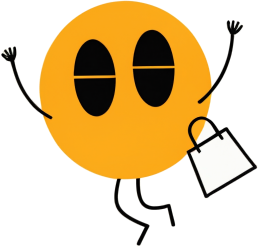
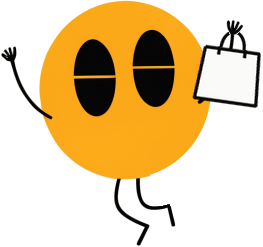
Landing DW: frases más cortas y Tiko con la bolsa en la mano
Claude-Session: https://claude.ai/code/session_015h3myKDGToEw98r4CTJLJW

diff --git a/susurro-digital/index.html b/susurro-digital/index.html
@@ -7,11 +7,11 @@
 <meta name="theme-color" content="#FFFFFF">
 <title>Digital Whisper — Tu negocio responde y publica solo</title>
 <link rel="icon" href="../assets/favicon-cw.png" type="image/png">
-<meta name="description" content="Atiende a tus clientes en WhatsApp e Instagram y arma el contenido de tu semana con tu marca. Nada se publica sin tu aprobación. Pide tu prueba gratis.">
+<meta name="description" content="Atiende a tus clientes en WhatsApp e Instagram y convierte lo que piden en tu contenido. Tú apruebas. Pide tu prueba gratis.">
 <meta property="og:type" content="website">
 <meta property="og:site_name" content="Creative Whisper">
 <meta property="og:title" content="Digital Whisper — Tu negocio responde y publica solo">
-<meta property="og:description" content="Atiende a tus clientes en WhatsApp e Instagram y arma el contenido de tu semana con tu marca. Nada se publica sin tu aprobación. Pide tu prueba gratis.">
+<meta property="og:description" content="Atiende a tus clientes en WhatsApp e Instagram y convierte lo que piden en tu contenido. Tú apruebas. Pide tu prueba gratis.">
 <meta property="og:locale" content="es_EC">
 <meta property="og:url" content="https://creativewhisper.net/susurro-digital/">
 <meta property="og:image" content="https://creativewhisper.net/assets/og-cw-logo.png">
@@ -24,7 +24,7 @@
 <link rel="preconnect" href="https://fonts.gstatic.com" crossorigin>
 <link rel="stylesheet" href="https://fonts.googleapis.com/css2?family=Big+Shoulders+Display:wght@700;800;900&family=Hanken+Grotesk:wght@400;500;600;700&family=IBM+Plex+Mono:wght@400;500&display=swap">
 <link rel="stylesheet" href="../assets/dw-landing.css?v=66">
-<script type="application/ld+json">{"@context":"https://schema.org","@graph":[{"@type":["ProfessionalService","Organization"],"@id":"https://creativewhisper.net/#organization","name":"Creative Whisper","url":"https://creativewhisper.net/","logo":"https://creativewhisper.net/assets/logo-cw.png","image":"https://creativewhisper.net/assets/monograma-cw.png","description":"Creative Whisper es una agencia de marketing basada en datos en Quito, Ecuador. Un solo equipo hace análisis de datos y de conversaciones, producción de video y fotografía, marketing digital (Meta Ads, Instagram, páginas web interactivas) y asistentes con inteligencia artificial que atienden a los clientes por WhatsApp, Instagram y el sitio web.","slogan":"Datos, producción audiovisual y marketing digital en un solo equipo.","telephone":"+593969235680","address":{"@type":"PostalAddress","addressLocality":"Quito","addressRegion":"Pichincha","addressCountry":"EC"},"areaServed":[{"@type":"City","name":"Quito"},{"@type":"Country","name":"Ecuador"}],"availableLanguage":["es","en"],"knowsAbout":["Marketing basado en datos","Análisis de conversaciones con clientes","Análisis de sentimiento","Producción audiovisual","Fotografía de producto","Fotografía automotriz","Meta Ads","Automatización de WhatsApp Business","Asistentes con inteligencia artificial","Diseño web interactivo"],"sameAs":["https://www.instagram.com/creative.whisper.productions"],"contactPoint":{"@type":"ContactPoint","contactType":"sales","telephone":"+593969235680","availableLanguage":["es","en"],"url":"https://wa.me/593969235680","email":"hola@creativewhisper.net"},"email":"hola@creativewhisper.net"},{"@type":"Service","@id":"https://creativewhisper.net/susurro-digital/#service","name":"Digital Whisper","alternateName":"Susurro digital","serviceType":"Publicidad basada en datos","description":"El servicio de escucha de clientes de Creative Whisper: reúne lo que dicen los clientes de un negocio en WhatsApp, Instagram y el sitio web, lo muestra en un tablero con sentimiento y quejas urgentes, y lo convierte en el próximo contenido de la marca para redes. Prueba gratuita por invitación.","url":"https://creativewhisper.net/susurro-digital/","provider":{"@id":"https://creativewhisper.net/#organization"},"areaServed":{"@type":"Country","name":"Ecuador"},"inLanguage":"es"},{"@type":"WebPage","@id":"https://creativewhisper.net/susurro-digital/#webpage","url":"https://creativewhisper.net/susurro-digital/","name":"Digital Whisper — Tu negocio responde y publica solo","description":"Atiende a tus clientes en WhatsApp e Instagram y arma el contenido de tu semana con tu marca. Nada se publica sin tu aprobación. Pide tu prueba gratis.","inLanguage":"es","isPartOf":{"@id":"https://creativewhisper.net/#website"},"about":{"@id":"https://creativewhisper.net/#organization"}},{"@type":"FAQPage","@id":"https://creativewhisper.net/susurro-digital/#faq","inLanguage":"es","mainEntity":[{"@type":"Question","name":"¿Publican algo sin que yo lo apruebe?","acceptedAnswer":{"@type":"Answer","text":"No. Cada pieza espera tu aprobación."}},{"@type":"Question","name":"¿Tengo que saber de tecnología?","acceptedAnswer":{"@type":"Answer","text":"No. Te acompañamos paso a paso al conectar tus canales."}},{"@type":"Question","name":"¿Cómo funciona por dentro?","acceptedAnswer":{"@type":"Answer","text":"Todo el detalle está en tu panel. Lo ves cuando aprobamos tu acceso."}},{"@type":"Question","name":"¿En qué idiomas funciona?","acceptedAnswer":{"@type":"Answer","text":"Español e inglés."}},{"@type":"Question","name":"¿Cuánto dura la prueba y qué pasa después?","acceptedAnswer":{"@type":"Answer","text":"La prueba es gratuita, sin tarjeta, y tiene fecha de fin. Al terminar eliges un plan; no se borra nada."}},{"@type":"Question","name":"¿Cuánto cuesta?","acceptedAnswer":{"@type":"Answer","text":"Primero pruébalo gratis con tus clientes reales. Los planes se conversan según lo que necesites."}}]}]}</script>
+<script type="application/ld+json">{"@context":"https://schema.org","@graph":[{"@type":["ProfessionalService","Organization"],"@id":"https://creativewhisper.net/#organization","name":"Creative Whisper","url":"https://creativewhisper.net/","logo":"https://creativewhisper.net/assets/logo-cw.png","image":"https://creativewhisper.net/assets/monograma-cw.png","description":"Creative Whisper es una agencia de marketing basada en datos en Quito, Ecuador. Un solo equipo hace análisis de datos y de conversaciones, producción de video y fotografía, marketing digital (Meta Ads, Instagram, páginas web interactivas) y asistentes con inteligencia artificial que atienden a los clientes por WhatsApp, Instagram y el sitio web.","slogan":"Datos, producción audiovisual y marketing digital en un solo equipo.","telephone":"+593969235680","address":{"@type":"PostalAddress","addressLocality":"Quito","addressRegion":"Pichincha","addressCountry":"EC"},"areaServed":[{"@type":"City","name":"Quito"},{"@type":"Country","name":"Ecuador"}],"availableLanguage":["es","en"],"knowsAbout":["Marketing basado en datos","Análisis de conversaciones con clientes","Análisis de sentimiento","Producción audiovisual","Fotografía de producto","Fotografía automotriz","Meta Ads","Automatización de WhatsApp Business","Asistentes con inteligencia artificial","Diseño web interactivo"],"sameAs":["https://www.instagram.com/creative.whisper.productions"],"contactPoint":{"@type":"ContactPoint","contactType":"sales","telephone":"+593969235680","availableLanguage":["es","en"],"url":"https://wa.me/593969235680","email":"hola@creativewhisper.net"},"email":"hola@creativewhisper.net"},{"@type":"Service","@id":"https://creativewhisper.net/susurro-digital/#service","name":"Digital Whisper","alternateName":"Susurro digital","serviceType":"Publicidad basada en datos","description":"El servicio de escucha de clientes de Creative Whisper: reúne lo que dicen los clientes de un negocio en WhatsApp, Instagram y el sitio web, lo muestra en un tablero con sentimiento y quejas urgentes, y lo convierte en el próximo contenido de la marca para redes. Prueba gratuita por invitación.","url":"https://creativewhisper.net/susurro-digital/","provider":{"@id":"https://creativewhisper.net/#organization"},"areaServed":{"@type":"Country","name":"Ecuador"},"inLanguage":"es"},{"@type":"WebPage","@id":"https://creativewhisper.net/susurro-digital/#webpage","url":"https://creativewhisper.net/susurro-digital/","name":"Digital Whisper — Tu negocio responde y publica solo","description":"Atiende a tus clientes en WhatsApp e Instagram y convierte lo que piden en tu contenido. Tú apruebas. Pide tu prueba gratis.","inLanguage":"es","isPartOf":{"@id":"https://creativewhisper.net/#website"},"about":{"@id":"https://creativewhisper.net/#organization"}},{"@type":"FAQPage","@id":"https://creativewhisper.net/susurro-digital/#faq","inLanguage":"es","mainEntity":[{"@type":"Question","name":"¿Publican algo sin que yo lo apruebe?","acceptedAnswer":{"@type":"Answer","text":"No. Cada pieza espera tu aprobación."}},{"@type":"Question","name":"¿Tengo que saber de tecnología?","acceptedAnswer":{"@type":"Answer","text":"No. Te acompañamos paso a paso."}},{"@type":"Question","name":"¿Cómo funciona por dentro?","acceptedAnswer":{"@type":"Answer","text":"Lo ves en tu panel cuando aprobamos tu acceso."}},{"@type":"Question","name":"¿En qué idiomas funciona?","acceptedAnswer":{"@type":"Answer","text":"Español e inglés."}},{"@type":"Question","name":"¿Cuánto dura la prueba y qué pasa después?","acceptedAnswer":{"@type":"Answer","text":"Es gratis y sin tarjeta. Al terminar eliges un plan; no se borra nada."}},{"@type":"Question","name":"¿Cuánto cuesta?","acceptedAnswer":{"@type":"Answer","text":"Primero pruébalo gratis. Luego, un plan a tu medida."}}]}]}</script>
 </head>
 <body>
 <a class="skip" href="#contenido">Saltar al contenido</a>
@@ -33,7 +33,7 @@
   <nav aria-label="Secciones"><a href="#promesa">Qué hace</a><a href="#familia">La familia</a><a href="#faq">Preguntas</a><a class="lang-l" href="/digital-whisper/" hreflang="en" lang="en" data-set-lang="en">EN</a><a class="btn pri chico" href="#solicitar">Pide tu prueba gratis</a></nav></header>
 <main id="contenido">
 <section class="l-sec" style="padding-top:0"><div class="l-in hero">
-  <div><span class="mono">Atención y contenido para tu negocio</span><h1 style="margin-top:14px">Tu negocio responde y publica <em>solo</em>. Tú apruebas.</h1><p class="lede">Digital Whisper atiende a tus clientes en WhatsApp e Instagram, escucha lo que piden y lo convierte en el contenido de tu semana, con tu marca.</p>
+  <div><span class="mono">Atención y contenido para tu negocio</span><h1 style="margin-top:14px">Tu negocio responde y publica <em>solo</em>. Tú apruebas.</h1><p class="lede">Atiende a tus clientes en WhatsApp e Instagram y convierte lo que piden en tu contenido.</p>
     <div class="cta"><a class="btn pri" href="#solicitar">Pide tu prueba gratis</a><a class="btn" href="#familia">Conoce a la familia →</a></div>
     <div class="conf"><span class="pill ok">✓ Nada se publica sin tu aprobación</span><span class="pill">🔒 Claves cifradas</span><span class="pill">ES · EN</span></div></div>
   <div class="mock" role="img" aria-label="Ilustración del panel con datos de ejemplo."><div class="mbar"><i></i><i></i><i></i><span style="margin-left:8px">Tu panel · esta semana</span></div>
@@ -42,15 +42,15 @@
       <div class="fila">💬 <span>«¿Tienen envío hoy?» · respondido en WhatsApp</span><span class="pill ok">ok</span></div><p class="ayuda" style="margin:0;font-size:12px">Ilustración del panel con datos de ejemplo.</p></div></div>
 </div></section>
 <section class="l-sec" id="promesa" style="background:var(--papel)"><div class="l-in dos">
-  <div class="prob"><span class="mono">El problema</span><h2 style="margin-top:10px">Responder y publicar se come tu día</h2><ul><li>Mensajes sin responder cuando el negocio está lleno.</li><li>Las mismas preguntas, una y otra vez.</li><li>Semanas sin publicar porque nadie tuvo tiempo.</li><li>Quejas que se quedan en un chat y nadie resuelve.</li></ul></div>
-  <div class="prob si"><span class="mono">La promesa</span><h2 style="margin-top:10px">Tú decides. Lo demás corre solo.</h2><ul><li>Un asistente que responde con tu información, a cualquier hora.</li><li>Cada queja se vuelve un caso que llega a quien lo resuelve.</li><li>La semana de contenido lista para aprobar de un toque.</li><li>Lo que tus clientes preguntan guía lo que publicas.</li></ul></div></div></section>
-<section class="l-sec" id="familia"><div class="l-in"><span class="mono">La familia Whisper</span><h2 style="margin-top:10px">Cinco formas de sentir. Las escuchamos todas.</h2><p class="lede" style="max-width:640px">Cada mensaje de tus clientes trae una emoción. Digital Whisper la reconoce, en español o en inglés, y te dice qué hacer con ella.</p><div class="familia"><figure class="bicho b-tiko"><img src="../assets/mascota/tiko.webp" alt="Tiko" width="180" height="230" loading="lazy"><figcaption><b>Tiko</b><span class="dice">«Quiero comprar»</span><span class="ayuda">Encuentra a quien está listo para comprar, para que no se te escape.</span></figcaption></figure><figure class="bicho b-ruby"><img src="../assets/mascota/ruby.webp" alt="Ruby" width="180" height="230" loading="lazy"><figcaption><b>Ruby</b><span class="dice">«Estoy molesto»</span><span class="ayuda">Las quejas te llegan primero, antes de que crezcan.</span></figcaption></figure><figure class="bicho b-pia"><img src="../assets/mascota/pia.webp" alt="Pía" width="180" height="230" loading="lazy"><figcaption><b>Pía</b><span class="dice">«Tengo una duda»</span><span class="ayuda">Lo que más preguntan se vuelve respuesta y contenido.</span></figcaption></figure><figure class="bicho b-teo"><img src="../assets/mascota/teo.webp" alt="Teo" width="180" height="230" loading="lazy"><figcaption><b>Teo</b><span class="dice">«Me encanta»</span><span class="ayuda">Lo que tus clientes aman, para que lo cuentes más.</span></figcaption></figure><figure class="bicho b-ari"><img src="../assets/mascota/ari.webp" alt="Ari" width="180" height="230" loading="lazy"><figcaption><b>Ari</b><span class="dice">«Solo miraba»</span><span class="ayuda">El resto también cuenta: el pulso de cada semana.</span></figcaption></figure></div><p class="ayuda fam-pie">El cómo, en detalle, vive en tu panel: lo ves cuando aprobamos tu acceso.</p></div></section>
+  <div class="prob"><span class="mono">El problema</span><h2 style="margin-top:10px">Responder y publicar se come tu día</h2><ul><li>Mensajes sin responder.</li><li>Las mismas preguntas, una y otra vez.</li><li>Semanas sin publicar.</li><li>Quejas que nadie resuelve.</li></ul></div>
+  <div class="prob si"><span class="mono">La promesa</span><h2 style="margin-top:10px">Tú decides. Lo demás corre solo.</h2><ul><li>Respuestas a cualquier hora.</li><li>Cada queja llega a quien la resuelve.</li><li>Tu semana de contenido, lista para aprobar.</li><li>Publicas lo que tus clientes piden.</li></ul></div></div></section>
+<section class="l-sec" id="familia"><div class="l-in"><span class="mono">La familia Whisper</span><h2 style="margin-top:10px">Cinco formas de sentir. Las escuchamos todas.</h2><p class="lede" style="max-width:640px">Cada mensaje trae una emoción. La reconocemos y te decimos qué hacer.</p><div class="familia"><figure class="bicho b-tiko"><img src="../assets/mascota/tiko.webp?v=2" alt="Tiko" width="180" height="230" loading="lazy"><figcaption><b>Tiko</b><span class="dice">«Quiero comprar»</span><span class="ayuda">Quien está listo para comprar.</span></figcaption></figure><figure class="bicho b-ruby"><img src="../assets/mascota/ruby.webp" alt="Ruby" width="180" height="230" loading="lazy"><figcaption><b>Ruby</b><span class="dice">«Estoy molesto»</span><span class="ayuda">Las quejas, antes de que crezcan.</span></figcaption></figure><figure class="bicho b-pia"><img src="../assets/mascota/pia.webp" alt="Pía" width="180" height="230" loading="lazy"><figcaption><b>Pía</b><span class="dice">«Tengo una duda»</span><span class="ayuda">Lo que más te preguntan.</span></figcaption></figure><figure class="bicho b-teo"><img src="../assets/mascota/teo.webp" alt="Teo" width="180" height="230" loading="lazy"><figcaption><b>Teo</b><span class="dice">«Me encanta»</span><span class="ayuda">Lo que tus clientes aman.</span></figcaption></figure><figure class="bicho b-ari"><img src="../assets/mascota/ari.webp" alt="Ari" width="180" height="230" loading="lazy"><figcaption><b>Ari</b><span class="dice">«Solo miraba»</span><span class="ayuda">El pulso de cada semana.</span></figcaption></figure></div><p class="ayuda fam-pie">El detalle lo ves en tu panel.</p></div></section>
 <section class="l-sec"><div class="l-in"><span class="mono">Seguridad y confianza</span><h2 style="margin-top:10px">Tu cuenta, tus reglas</h2>
-  <div class="seg"><div><b>Tú apruebas</b><span class="ayuda">Nada sale sin tu aprobación, y queda registrado quién aprobó cada pieza.</span></div><div><b>Claves cifradas</b><span class="ayuda">Las pegas tú en una ventana protegida. Nadie las vuelve a ver; el asistente nunca las pide.</span></div><div><b>Solo tu información</b><span class="ayuda">El asistente no inventa precios, promociones ni fechas.</span></div><div><b>Tus datos, separados</b><span class="ayuda">Cada cuenta está aislada de las demás. Puedes pedir que se borre.</span></div></div></div></section>
+  <div class="seg"><div><b>Tú apruebas</b><span class="ayuda">Nada sale sin tu visto bueno.</span></div><div><b>Claves cifradas</b><span class="ayuda">Nadie más las ve.</span></div><div><b>Solo tu información</b><span class="ayuda">Nada de precios ni promociones inventados.</span></div><div><b>Tus datos, separados</b><span class="ayuda">Aislados de las demás cuentas.</span></div></div></div></section>
 <!-- Casos de clientes: bloque reservado. Se muestra (quitando «hidden») cuando haya un caso real con resultados y permiso del cliente. Nada inventado. -->
 <section class="l-sec" id="casos" style="background:var(--papel)" hidden><div class="l-in"><span class="mono">Casos de clientes</span><h2 style="margin-top:10px">Marcas que ya lo usan</h2><div id="casosLista"></div></div></section>
-<section class="l-sec" id="faq"><div class="l-in dos"><div class="faq"><span class="mono">Preguntas frecuentes</span><h2 style="margin:10px 0 18px">Lo que nos preguntan</h2><details><summary>¿Publican algo sin que yo lo apruebe?</summary><p>No. Cada pieza espera tu aprobación.</p></details><details><summary>¿Tengo que saber de tecnología?</summary><p>No. Te acompañamos paso a paso al conectar tus canales.</p></details><details><summary>¿Cómo funciona por dentro?</summary><p>Todo el detalle está en tu panel. Lo ves cuando aprobamos tu acceso.</p></details><details><summary>¿En qué idiomas funciona?</summary><p>Español e inglés.</p></details><details><summary>¿Cuánto dura la prueba y qué pasa después?</summary><p>La prueba es gratuita, sin tarjeta, y tiene fecha de fin. Al terminar eliges un plan; no se borra nada.</p></details><details><summary>¿Cuánto cuesta?</summary><p>Primero pruébalo gratis con tus clientes reales. Los planes se conversan según lo que necesites.</p></details></div>
-  <div id="solicitar"><div class="tarjeta" style="border:1.5px solid var(--negro);box-shadow:8px 8px 0 var(--naranja)"><h2 style="font-size:40px">Pide tu prueba gratis</h2><p class="ayuda">Con tus clientes reales. Sin tarjeta. El acceso es por aprobación: te respondemos por correo.</p>
+<section class="l-sec" id="faq"><div class="l-in dos"><div class="faq"><span class="mono">Preguntas frecuentes</span><h2 style="margin:10px 0 18px">Lo que nos preguntan</h2><details><summary>¿Publican algo sin que yo lo apruebe?</summary><p>No. Cada pieza espera tu aprobación.</p></details><details><summary>¿Tengo que saber de tecnología?</summary><p>No. Te acompañamos paso a paso.</p></details><details><summary>¿Cómo funciona por dentro?</summary><p>Lo ves en tu panel cuando aprobamos tu acceso.</p></details><details><summary>¿En qué idiomas funciona?</summary><p>Español e inglés.</p></details><details><summary>¿Cuánto dura la prueba y qué pasa después?</summary><p>Es gratis y sin tarjeta. Al terminar eliges un plan; no se borra nada.</p></details><details><summary>¿Cuánto cuesta?</summary><p>Primero pruébalo gratis. Luego, un plan a tu medida.</p></details></div>
+  <div id="solicitar"><div class="tarjeta" style="border:1.5px solid var(--negro);box-shadow:8px 8px 0 var(--naranja)"><h2 style="font-size:40px">Pide tu prueba gratis</h2><p class="ayuda">Sin tarjeta. Te respondemos por correo.</p>
 <form class="reg" id="solicitud" novalidate>
         <div class="fila">
           <label><span class="rot">Tu nombre</span><input type="text" id="rNombre" name="cw-persona" maxlength="80" autocomplete="name" required></label>

diff --git a/digital-whisper/index.html b/digital-whisper/index.html
@@ -7,11 +7,11 @@
 <meta name="theme-color" content="#FFFFFF">
 <title>Digital Whisper — Your business answers and posts by itself</title>
 <link rel="icon" href="../assets/favicon-cw.png" type="image/png">
-<meta name="description" content="Serves your customers on WhatsApp and Instagram and prepares your week&#x27;s content in your brand. Nothing is published without your approval. Request a free trial.">
+<meta name="description" content="Serves your customers on WhatsApp and Instagram and turns what they ask into your content. You approve. Request a free trial.">
 <meta property="og:type" content="website">
 <meta property="og:site_name" content="Creative Whisper">
 <meta property="og:title" content="Digital Whisper — Your business answers and posts by itself">
-<meta property="og:description" content="Serves your customers on WhatsApp and Instagram and prepares your week&#x27;s content in your brand. Nothing is published without your approval. Request a free trial.">
+<meta property="og:description" content="Serves your customers on WhatsApp and Instagram and turns what they ask into your content. You approve. Request a free trial.">
 <meta property="og:locale" content="en_US">
 <meta property="og:url" content="https://creativewhisper.net/digital-whisper/">
 <meta property="og:image" content="https://creativewhisper.net/assets/og-cw-logo.png">
@@ -24,7 +24,7 @@
 <link rel="preconnect" href="https://fonts.gstatic.com" crossorigin>
 <link rel="stylesheet" href="https://fonts.googleapis.com/css2?family=Big+Shoulders+Display:wght@700;800;900&family=Hanken+Grotesk:wght@400;500;600;700&family=IBM+Plex+Mono:wght@400;500&display=swap">
 <link rel="stylesheet" href="../assets/dw-landing.css?v=66">
-<script type="application/ld+json">{"@context":"https://schema.org","@graph":[{"@type":["ProfessionalService","Organization"],"@id":"https://creativewhisper.net/#organization","name":"Creative Whisper","url":"https://creativewhisper.net/","logo":"https://creativewhisper.net/assets/logo-cw.png","image":"https://creativewhisper.net/assets/monograma-cw.png","description":"Creative Whisper is a data-driven marketing agency in Quito, Ecuador. One team handles data and conversation analysis, video and photo production, digital marketing (Meta Ads, Instagram, interactive websites) and AI assistants that answer customers on WhatsApp, Instagram and websites.","slogan":"Data, video production and digital marketing in one team.","telephone":"+593969235680","address":{"@type":"PostalAddress","addressLocality":"Quito","addressRegion":"Pichincha","addressCountry":"EC"},"areaServed":[{"@type":"City","name":"Quito"},{"@type":"Country","name":"Ecuador"}],"availableLanguage":["es","en"],"knowsAbout":["Data-driven marketing","Customer conversation analysis","Sentiment analysis","Video production","Product photography","Automotive photography","Meta Ads","WhatsApp Business automation","AI chat assistants","Interactive web design"],"sameAs":["https://www.instagram.com/creative.whisper.productions"],"contactPoint":{"@type":"ContactPoint","contactType":"sales","telephone":"+593969235680","availableLanguage":["es","en"],"url":"https://wa.me/593969235680","email":"hola@creativewhisper.net"},"email":"hola@creativewhisper.net"},{"@type":"Service","@id":"https://creativewhisper.net/digital-whisper/#service","name":"Digital Whisper","alternateName":"Susurro digital","serviceType":"Data-driven advertising","description":"Creative Whisper's customer-listening service: it gathers what customers say in a business's WhatsApp, Instagram and website conversations, shows it in a dashboard with sentiment and urgent complaints, and turns it into the brand's next social media content. Free trial by invitation.","url":"https://creativewhisper.net/digital-whisper/","provider":{"@id":"https://creativewhisper.net/#organization"},"areaServed":{"@type":"Country","name":"Ecuador"},"inLanguage":"en"},{"@type":"WebPage","@id":"https://creativewhisper.net/digital-whisper/#webpage","url":"https://creativewhisper.net/digital-whisper/","name":"Digital Whisper — Your business answers and posts by itself","description":"Serves your customers on WhatsApp and Instagram and prepares your week's content in your brand. Nothing is published without your approval. Request a free trial.","inLanguage":"en","isPartOf":{"@id":"https://creativewhisper.net/#website"},"about":{"@id":"https://creativewhisper.net/#organization"}},{"@type":"FAQPage","@id":"https://creativewhisper.net/digital-whisper/#faq","inLanguage":"en","mainEntity":[{"@type":"Question","name":"Do you publish anything without my approval?","acceptedAnswer":{"@type":"Answer","text":"No. Every piece waits for your approval."}},{"@type":"Question","name":"Do I need to be technical?","acceptedAnswer":{"@type":"Answer","text":"No. We walk you through connecting your channels, step by step."}},{"@type":"Question","name":"How does it work inside?","acceptedAnswer":{"@type":"Answer","text":"All the detail is in your dashboard. You see it once we approve your access."}},{"@type":"Question","name":"Which languages does it work in?","acceptedAnswer":{"@type":"Answer","text":"Spanish and English."}},{"@type":"Question","name":"How long is the trial and what happens after?","acceptedAnswer":{"@type":"Answer","text":"The trial is free, with no card, and has an end date. When it ends you choose a plan; nothing is deleted."}},{"@type":"Question","name":"How much does it cost?","acceptedAnswer":{"@type":"Answer","text":"Try it free with your real customers first. Plans are discussed based on what you need."}}]}]}</script>
+<script type="application/ld+json">{"@context":"https://schema.org","@graph":[{"@type":["ProfessionalService","Organization"],"@id":"https://creativewhisper.net/#organization","name":"Creative Whisper","url":"https://creativewhisper.net/","logo":"https://creativewhisper.net/assets/logo-cw.png","image":"https://creativewhisper.net/assets/monograma-cw.png","description":"Creative Whisper is a data-driven marketing agency in Quito, Ecuador. One team handles data and conversation analysis, video and photo production, digital marketing (Meta Ads, Instagram, interactive websites) and AI assistants that answer customers on WhatsApp, Instagram and websites.","slogan":"Data, video production and digital marketing in one team.","telephone":"+593969235680","address":{"@type":"PostalAddress","addressLocality":"Quito","addressRegion":"Pichincha","addressCountry":"EC"},"areaServed":[{"@type":"City","name":"Quito"},{"@type":"Country","name":"Ecuador"}],"availableLanguage":["es","en"],"knowsAbout":["Data-driven marketing","Customer conversation analysis","Sentiment analysis","Video production","Product photography","Automotive photography","Meta Ads","WhatsApp Business automation","AI chat assistants","Interactive web design"],"sameAs":["https://www.instagram.com/creative.whisper.productions"],"contactPoint":{"@type":"ContactPoint","contactType":"sales","telephone":"+593969235680","availableLanguage":["es","en"],"url":"https://wa.me/593969235680","email":"hola@creativewhisper.net"},"email":"hola@creativewhisper.net"},{"@type":"Service","@id":"https://creativewhisper.net/digital-whisper/#service","name":"Digital Whisper","alternateName":"Susurro digital","serviceType":"Data-driven advertising","description":"Creative Whisper's customer-listening service: it gathers what customers say in a business's WhatsApp, Instagram and website conversations, shows it in a dashboard with sentiment and urgent complaints, and turns it into the brand's next social media content. Free trial by invitation.","url":"https://creativewhisper.net/digital-whisper/","provider":{"@id":"https://creativewhisper.net/#organization"},"areaServed":{"@type":"Country","name":"Ecuador"},"inLanguage":"en"},{"@type":"WebPage","@id":"https://creativewhisper.net/digital-whisper/#webpage","url":"https://creativewhisper.net/digital-whisper/","name":"Digital Whisper — Your business answers and posts by itself","description":"Serves your customers on WhatsApp and Instagram and turns what they ask into your content. You approve. Request a free trial.","inLanguage":"en","isPartOf":{"@id":"https://creativewhisper.net/#website"},"about":{"@id":"https://creativewhisper.net/#organization"}},{"@type":"FAQPage","@id":"https://creativewhisper.net/digital-whisper/#faq","inLanguage":"en","mainEntity":[{"@type":"Question","name":"Do you publish anything without my approval?","acceptedAnswer":{"@type":"Answer","text":"No. Every piece waits for your approval."}},{"@type":"Question","name":"Do I need to be technical?","acceptedAnswer":{"@type":"Answer","text":"No. We walk you through it, step by step."}},{"@type":"Question","name":"How does it work inside?","acceptedAnswer":{"@type":"Answer","text":"You see it in your dashboard once we approve your access."}},{"@type":"Question","name":"Which languages does it work in?","acceptedAnswer":{"@type":"Answer","text":"Spanish and English."}},{"@type":"Question","name":"How long is the trial and what happens after?","acceptedAnswer":{"@type":"Answer","text":"It's free, with no card. When it ends you choose a plan; nothing is deleted."}},{"@type":"Question","name":"How much does it cost?","acceptedAnswer":{"@type":"Answer","text":"Try it free first. Then, a plan that fits you."}}]}]}</script>
 </head>
 <body>
 <a class="skip" href="#contenido">Skip to content</a>
@@ -33,7 +33,7 @@
   <nav aria-label="Sections"><a href="#promesa">What it does</a><a href="#familia">The family</a><a href="#faq">FAQ</a><a class="lang-l" href="/susurro-digital/" hreflang="es" lang="es" data-set-lang="es">ES</a><a class="btn pri chico" href="#solicitar">Request your free trial</a></nav></header>
 <main id="contenido">
 <section class="l-sec" style="padding-top:0"><div class="l-in hero">
-  <div><span class="mono">Customer care and content for your business</span><h1 style="margin-top:14px">Your business answers and posts <em>by itself</em>. You approve.</h1><p class="lede">Digital Whisper serves your customers on WhatsApp and Instagram, listens to what they ask and turns it into your week&#x27;s content, in your brand.</p>
+  <div><span class="mono">Customer care and content for your business</span><h1 style="margin-top:14px">Your business answers and posts <em>by itself</em>. You approve.</h1><p class="lede">Serves your customers on WhatsApp and Instagram and turns what they ask into your content.</p>
     <div class="cta"><a class="btn pri" href="#solicitar">Request your free trial</a><a class="btn" href="#familia">Meet the family →</a></div>
     <div class="conf"><span class="pill ok">✓ Nothing is published without your approval</span><span class="pill">🔒 Encrypted keys</span><span class="pill">ES · EN</span></div></div>
   <div class="mock" role="img" aria-label="Illustration of the dashboard with sample data."><div class="mbar"><i></i><i></i><i></i><span style="margin-left:8px">Your dashboard · this week</span></div>
@@ -42,15 +42,15 @@
       <div class="fila">💬 <span>“Do you deliver today?” · answered on WhatsApp</span><span class="pill ok">ok</span></div><p class="ayuda" style="margin:0;font-size:12px">Illustration of the dashboard with sample data.</p></div></div>
 </div></section>
 <section class="l-sec" id="promesa" style="background:var(--papel)"><div class="l-in dos">
-  <div class="prob"><span class="mono">The problem</span><h2 style="margin-top:10px">Answering and posting eats your day</h2><ul><li>Unanswered messages when the business is busy.</li><li>The same questions, again and again.</li><li>Weeks without posting because nobody had time.</li><li>Complaints that stay in a chat and nobody solves.</li></ul></div>
-  <div class="prob si"><span class="mono">The promise</span><h2 style="margin-top:10px">You decide. The rest runs itself.</h2><ul><li>An assistant that answers with your information, any time.</li><li>Every complaint becomes a case that reaches whoever solves it.</li><li>The week&#x27;s content ready to approve in one tap.</li><li>What your customers ask guides what you post.</li></ul></div></div></section>
-<section class="l-sec" id="familia"><div class="l-in"><span class="mono">The Whisper family</span><h2 style="margin-top:10px">Five ways to feel. We hear them all.</h2><p class="lede" style="max-width:640px">Every customer message carries an emotion. Digital Whisper recognizes it, in Spanish or English, and tells you what to do with it.</p><div class="familia"><figure class="bicho b-tiko"><img src="../assets/mascota/tiko.webp" alt="Tiko" width="180" height="230" loading="lazy"><figcaption><b>Tiko</b><span class="dice">“I want to buy”</span><span class="ayuda">Spots the customers ready to buy, so none slip away.</span></figcaption></figure><figure class="bicho b-ruby"><img src="../assets/mascota/ruby.webp" alt="Ruby" width="180" height="230" loading="lazy"><figcaption><b>Ruby</b><span class="dice">“I’m upset”</span><span class="ayuda">Complaints reach you first, before they grow.</span></figcaption></figure><figure class="bicho b-pia"><img src="../assets/mascota/pia.webp" alt="Pía" width="180" height="230" loading="lazy"><figcaption><b>Pía</b><span class="dice">“I have a question”</span><span class="ayuda">What people ask most becomes answers and content.</span></figcaption></figure><figure class="bicho b-teo"><img src="../assets/mascota/teo.webp" alt="Teo" width="180" height="230" loading="lazy"><figcaption><b>Teo</b><span class="dice">“I love it”</span><span class="ayuda">What your customers love, so you can tell it more.</span></figcaption></figure><figure class="bicho b-ari"><img src="../assets/mascota/ari.webp" alt="Ari" width="180" height="230" loading="lazy"><figcaption><b>Ari</b><span class="dice">“Just looking”</span><span class="ayuda">Everything else counts too: the pulse of every week.</span></figcaption></figure></div><p class="ayuda fam-pie">The how, in detail, lives in your dashboard: you see it once we approve your access.</p></div></section>
+  <div class="prob"><span class="mono">The problem</span><h2 style="margin-top:10px">Answering and posting eats your day</h2><ul><li>Unanswered messages.</li><li>The same questions, again and again.</li><li>Weeks without posting.</li><li>Complaints nobody solves.</li></ul></div>
+  <div class="prob si"><span class="mono">The promise</span><h2 style="margin-top:10px">You decide. The rest runs itself.</h2><ul><li>Answers at any hour.</li><li>Every complaint reaches whoever solves it.</li><li>Your week of content, ready to approve.</li><li>You post what your customers ask for.</li></ul></div></div></section>
+<section class="l-sec" id="familia"><div class="l-in"><span class="mono">The Whisper family</span><h2 style="margin-top:10px">Five ways to feel. We hear them all.</h2><p class="lede" style="max-width:640px">Every message carries an emotion. We recognize it and tell you what to do.</p><div class="familia"><figure class="bicho b-tiko"><img src="../assets/mascota/tiko.webp?v=2" alt="Tiko" width="180" height="230" loading="lazy"><figcaption><b>Tiko</b><span class="dice">“I want to buy”</span><span class="ayuda">Who is ready to buy.</span></figcaption></figure><figure class="bicho b-ruby"><img src="../assets/mascota/ruby.webp" alt="Ruby" width="180" height="230" loading="lazy"><figcaption><b>Ruby</b><span class="dice">“I’m upset”</span><span class="ayuda">Complaints, before they grow.</span></figcaption></figure><figure class="bicho b-pia"><img src="../assets/mascota/pia.webp" alt="Pía" width="180" height="230" loading="lazy"><figcaption><b>Pía</b><span class="dice">“I have a question”</span><span class="ayuda">What people ask you most.</span></figcaption></figure><figure class="bicho b-teo"><img src="../assets/mascota/teo.webp" alt="Teo" width="180" height="230" loading="lazy"><figcaption><b>Teo</b><span class="dice">“I love it”</span><span class="ayuda">What your customers love.</span></figcaption></figure><figure class="bicho b-ari"><img src="../assets/mascota/ari.webp" alt="Ari" width="180" height="230" loading="lazy"><figcaption><b>Ari</b><span class="dice">“Just looking”</span><span class="ayuda">The pulse of every week.</span></figcaption></figure></div><p class="ayuda fam-pie">The detail lives in your dashboard.</p></div></section>
 <section class="l-sec"><div class="l-in"><span class="mono">Security and trust</span><h2 style="margin-top:10px">Your account, your rules</h2>
-  <div class="seg"><div><b>You approve</b><span class="ayuda">Nothing goes out without your approval, and who approved each piece is logged.</span></div><div><b>Encrypted keys</b><span class="ayuda">You paste them in a protected window. Nobody sees them again; the assistant never asks for them.</span></div><div><b>Only your information</b><span class="ayuda">The assistant does not make up prices, promotions or dates.</span></div><div><b>Your data, separate</b><span class="ayuda">Every account is isolated from the rest. You can ask for deletion.</span></div></div></div></section>
+  <div class="seg"><div><b>You approve</b><span class="ayuda">Nothing goes out without your OK.</span></div><div><b>Encrypted keys</b><span class="ayuda">Nobody else sees them.</span></div><div><b>Only your information</b><span class="ayuda">No made-up prices or promotions.</span></div><div><b>Your data, separate</b><span class="ayuda">Isolated from every other account.</span></div></div></div></section>
 <!-- Casos de clientes: bloque reservado. Se muestra (quitando «hidden») cuando haya un caso real con resultados y permiso del cliente. Nada inventado. -->
 <section class="l-sec" id="casos" style="background:var(--papel)" hidden><div class="l-in"><span class="mono">Customer stories</span><h2 style="margin-top:10px">Brands already using it</h2><div id="casosLista"></div></div></section>
-<section class="l-sec" id="faq"><div class="l-in dos"><div class="faq"><span class="mono">Frequently asked</span><h2 style="margin:10px 0 18px">What people ask us</h2><details><summary>Do you publish anything without my approval?</summary><p>No. Every piece waits for your approval.</p></details><details><summary>Do I need to be technical?</summary><p>No. We walk you through connecting your channels, step by step.</p></details><details><summary>How does it work inside?</summary><p>All the detail is in your dashboard. You see it once we approve your access.</p></details><details><summary>Which languages does it work in?</summary><p>Spanish and English.</p></details><details><summary>How long is the trial and what happens after?</summary><p>The trial is free, with no card, and has an end date. When it ends you choose a plan; nothing is deleted.</p></details><details><summary>How much does it cost?</summary><p>Try it free with your real customers first. Plans are discussed based on what you need.</p></details></div>
-  <div id="solicitar"><div class="tarjeta" style="border:1.5px solid var(--negro);box-shadow:8px 8px 0 var(--naranja)"><h2 style="font-size:40px">Request your free trial</h2><p class="ayuda">With your real customers. No card. Access is by approval: we reply by email.</p>
+<section class="l-sec" id="faq"><div class="l-in dos"><div class="faq"><span class="mono">Frequently asked</span><h2 style="margin:10px 0 18px">What people ask us</h2><details><summary>Do you publish anything without my approval?</summary><p>No. Every piece waits for your approval.</p></details><details><summary>Do I need to be technical?</summary><p>No. We walk you through it, step by step.</p></details><details><summary>How does it work inside?</summary><p>You see it in your dashboard once we approve your access.</p></details><details><summary>Which languages does it work in?</summary><p>Spanish and English.</p></details><details><summary>How long is the trial and what happens after?</summary><p>It's free, with no card. When it ends you choose a plan; nothing is deleted.</p></details><details><summary>How much does it cost?</summary><p>Try it free first. Then, a plan that fits you.</p></details></div>
+  <div id="solicitar"><div class="tarjeta" style="border:1.5px solid var(--negro);box-shadow:8px 8px 0 var(--naranja)"><h2 style="font-size:40px">Request your free trial</h2><p class="ayuda">No card. We reply by email.</p>
 <form class="reg" id="solicitud" novalidate>
         <div class="fila">
           <label><span class="rot">Your name</span><input type="text" id="rNombre" name="cw-persona" maxlength="80" autocomplete="name" required></label>
